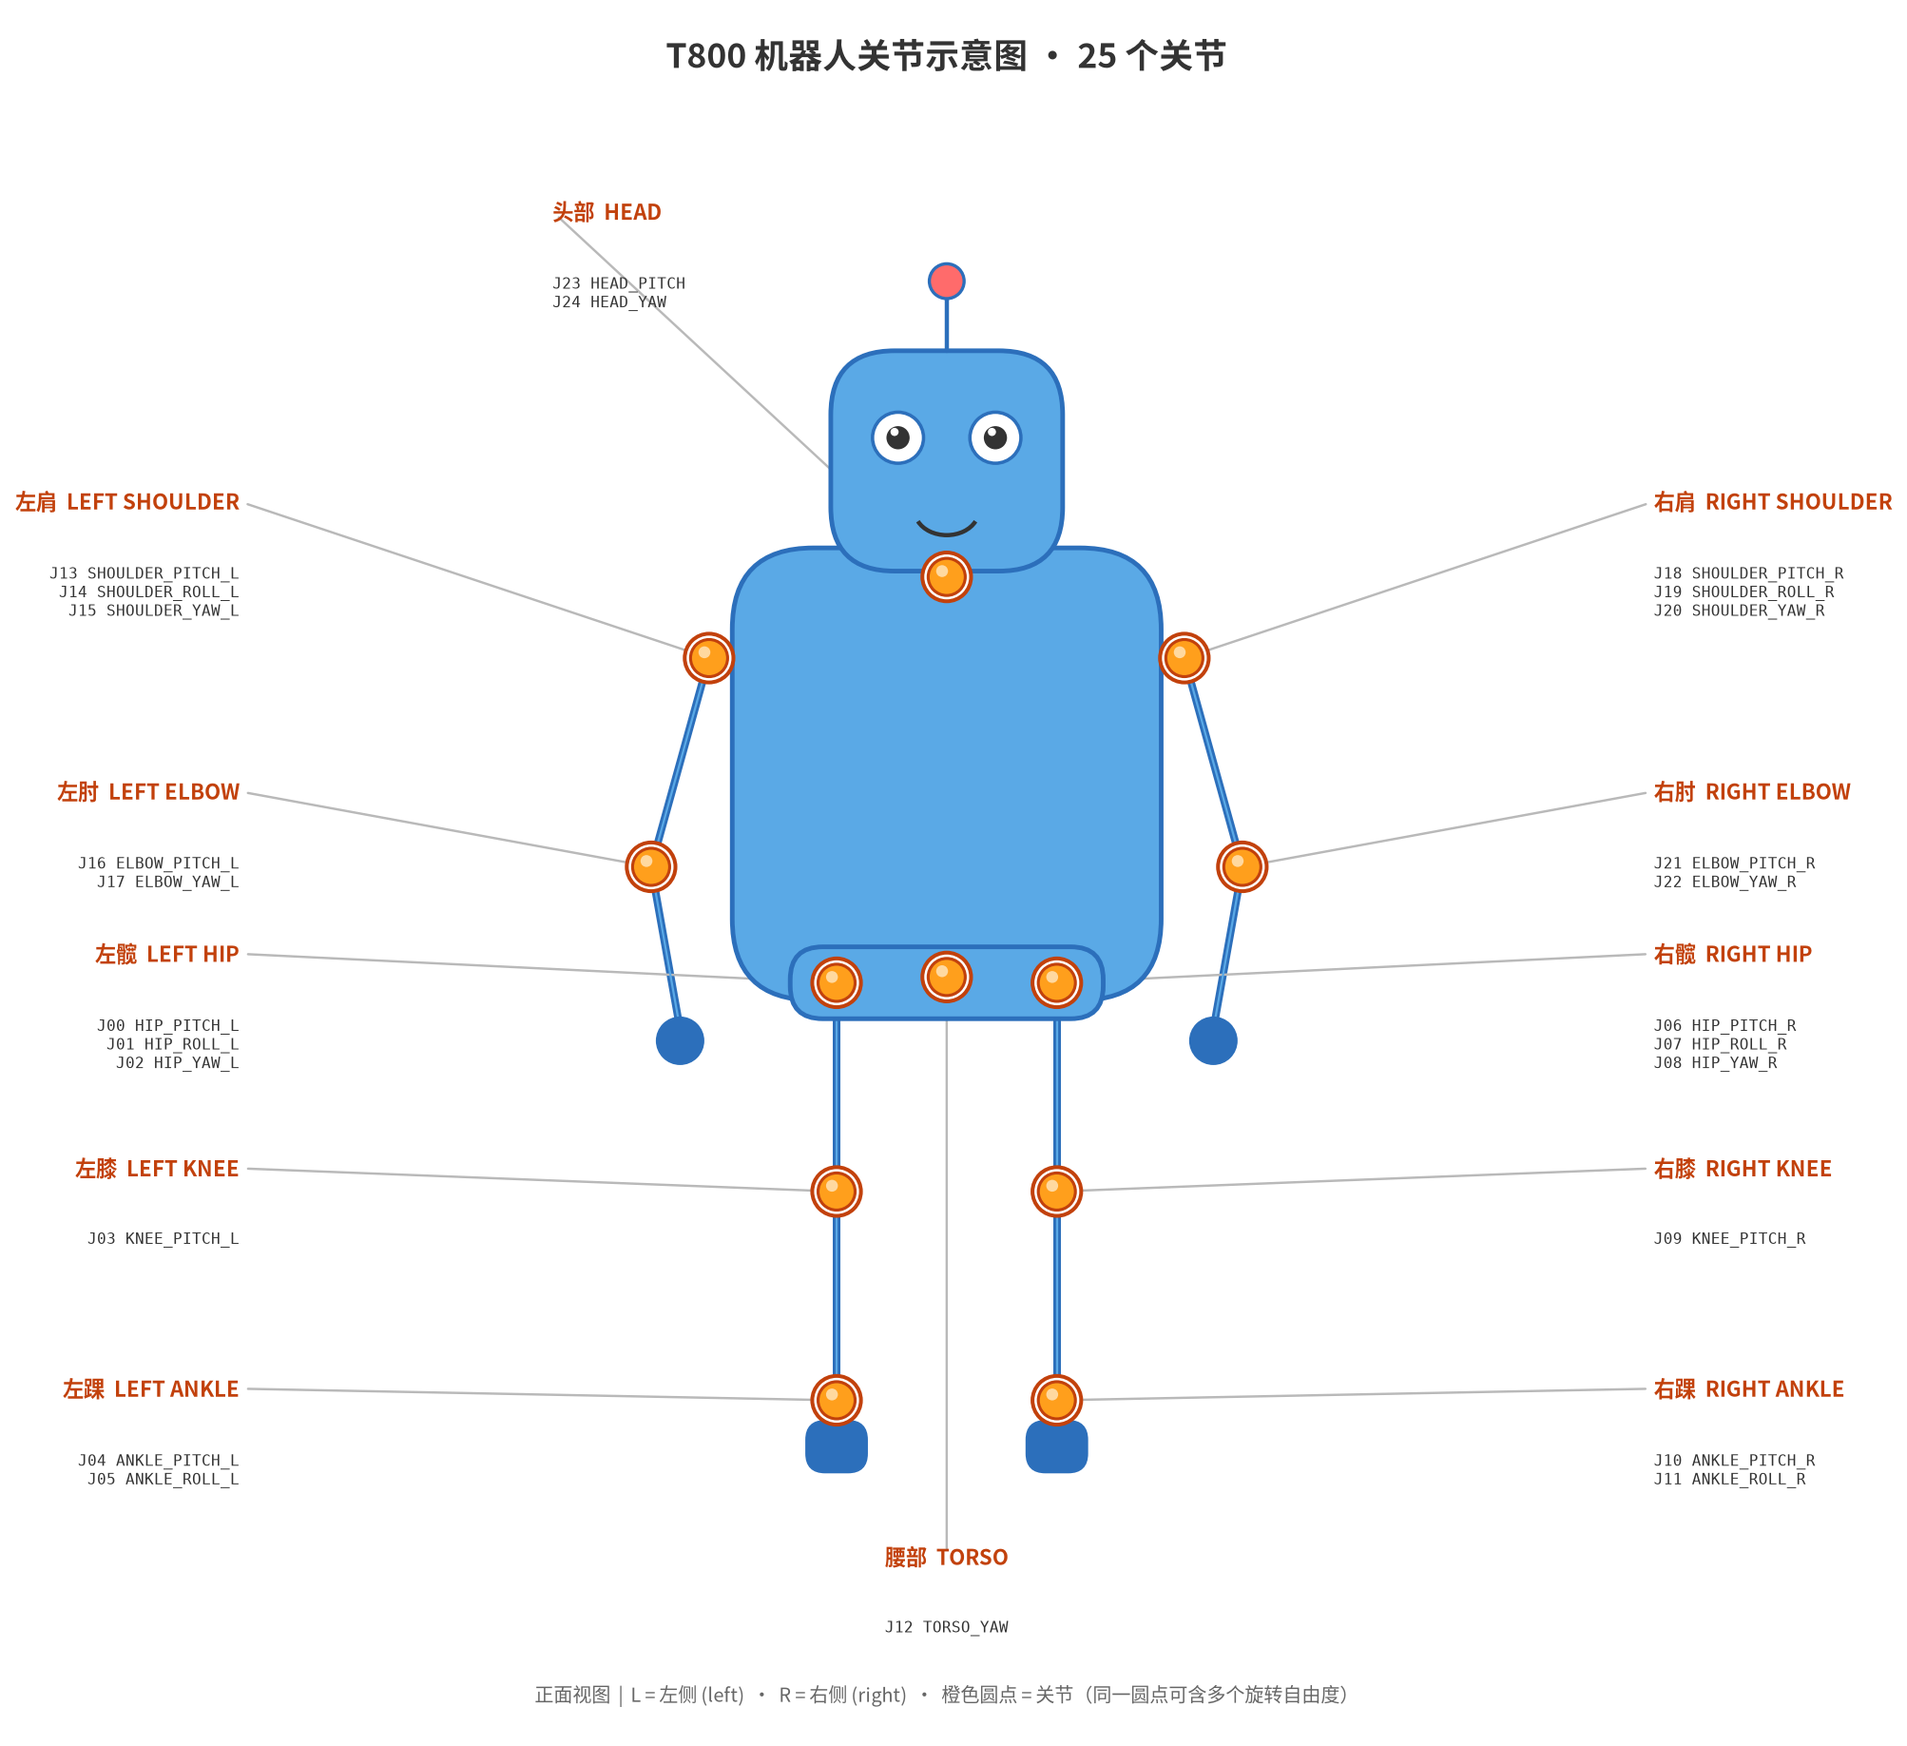
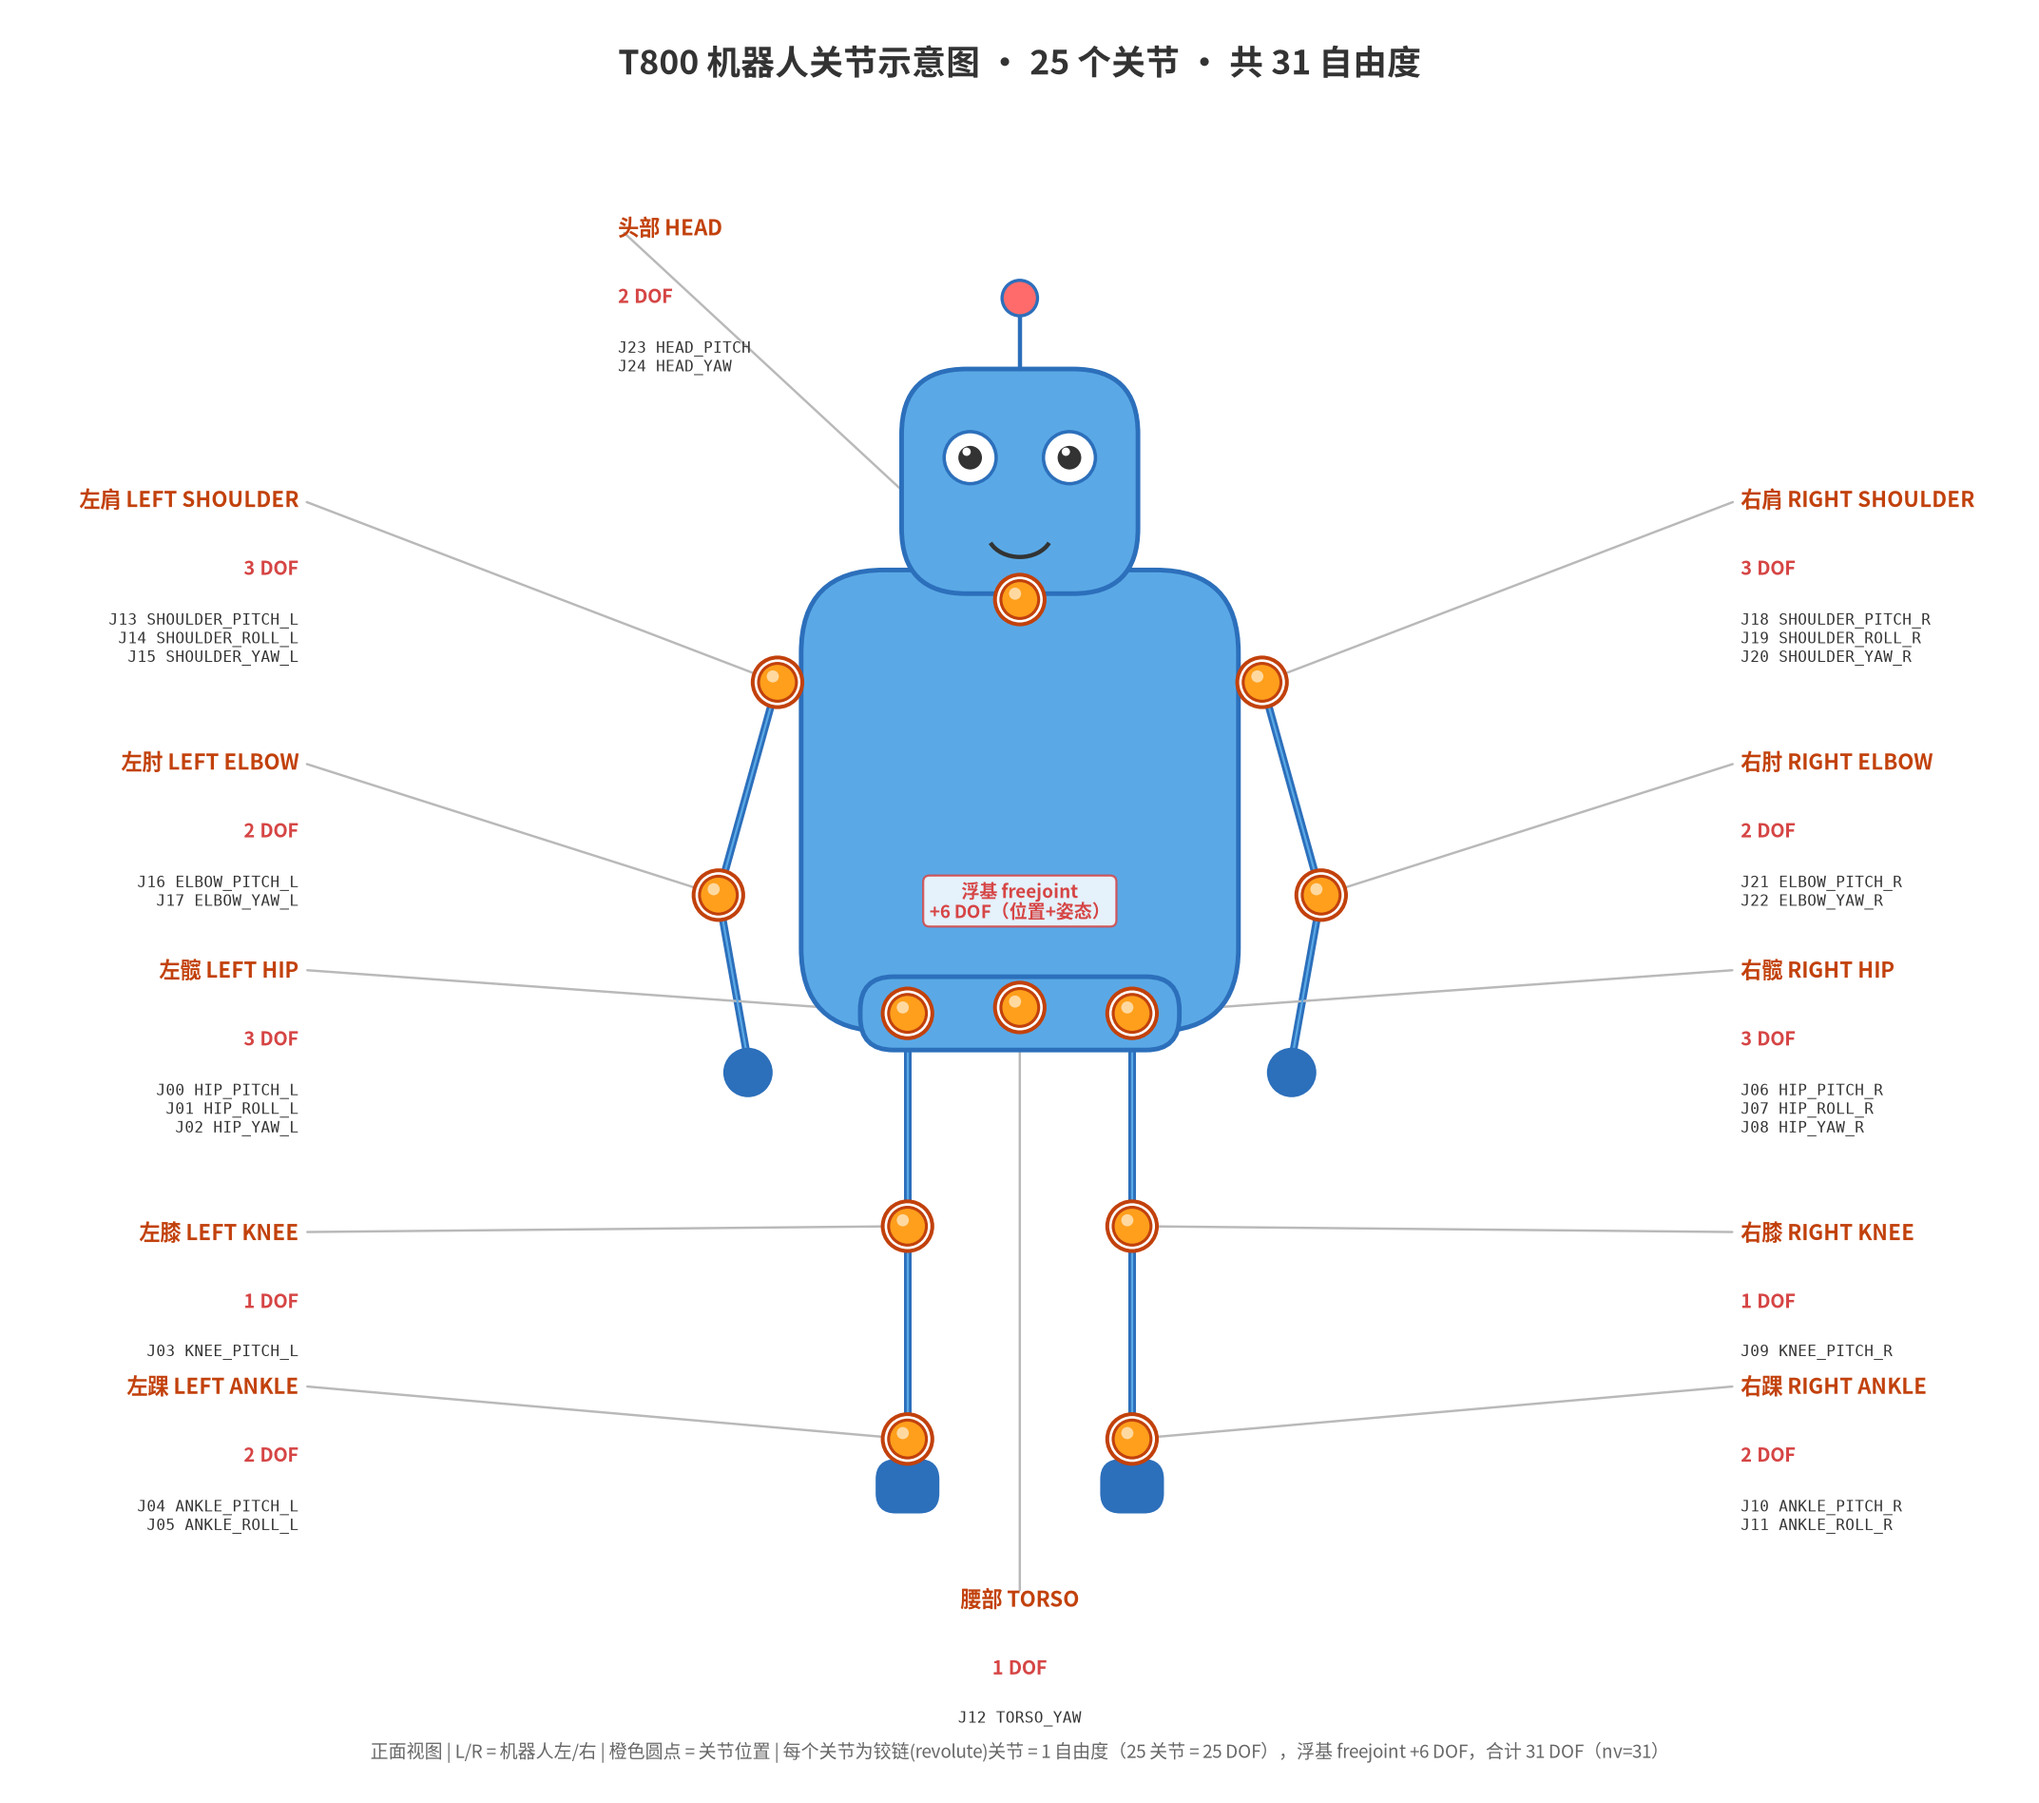
更新

diff --git a/tutorial/04_joints_links.py b/tutorial/04_joints_links.py
@@ -30,9 +30,9 @@ def main():
     print(f"== 关节（共 {model.njnt} 个，含浮基自由关节）==")
     for jid in range(model.njnt):
         name = mujoco.mj_id2name(model, mujoco.mjtObj.mjOBJ_JOINT, jid)
-        jtype = model.jnt_type[jid]
-        qadr = model.jnt_qposadr[jid]
-        dadr = model.jnt_dofadr[jid]
+        jtype = model.jnt_type[jid]      # 关节类型：0=自由(free) 1=球(ball) 2=滑动(slide) 3=铰链(hinge)
+        qadr = model.jnt_qposadr[jid]    # 该关节在 data.qpos（广义位置）中的起始下标
+        dadr = model.jnt_dofadr[jid]     # 该关节在 data.qvel（广义速度，按自由度编号）中的起始下标
         print(f"  jid={jid:2d}  name={name!r:24s} type={int(jtype)} "
               f"qpos_adr={qadr:2d} dof_adr={dadr:2d}")
 
